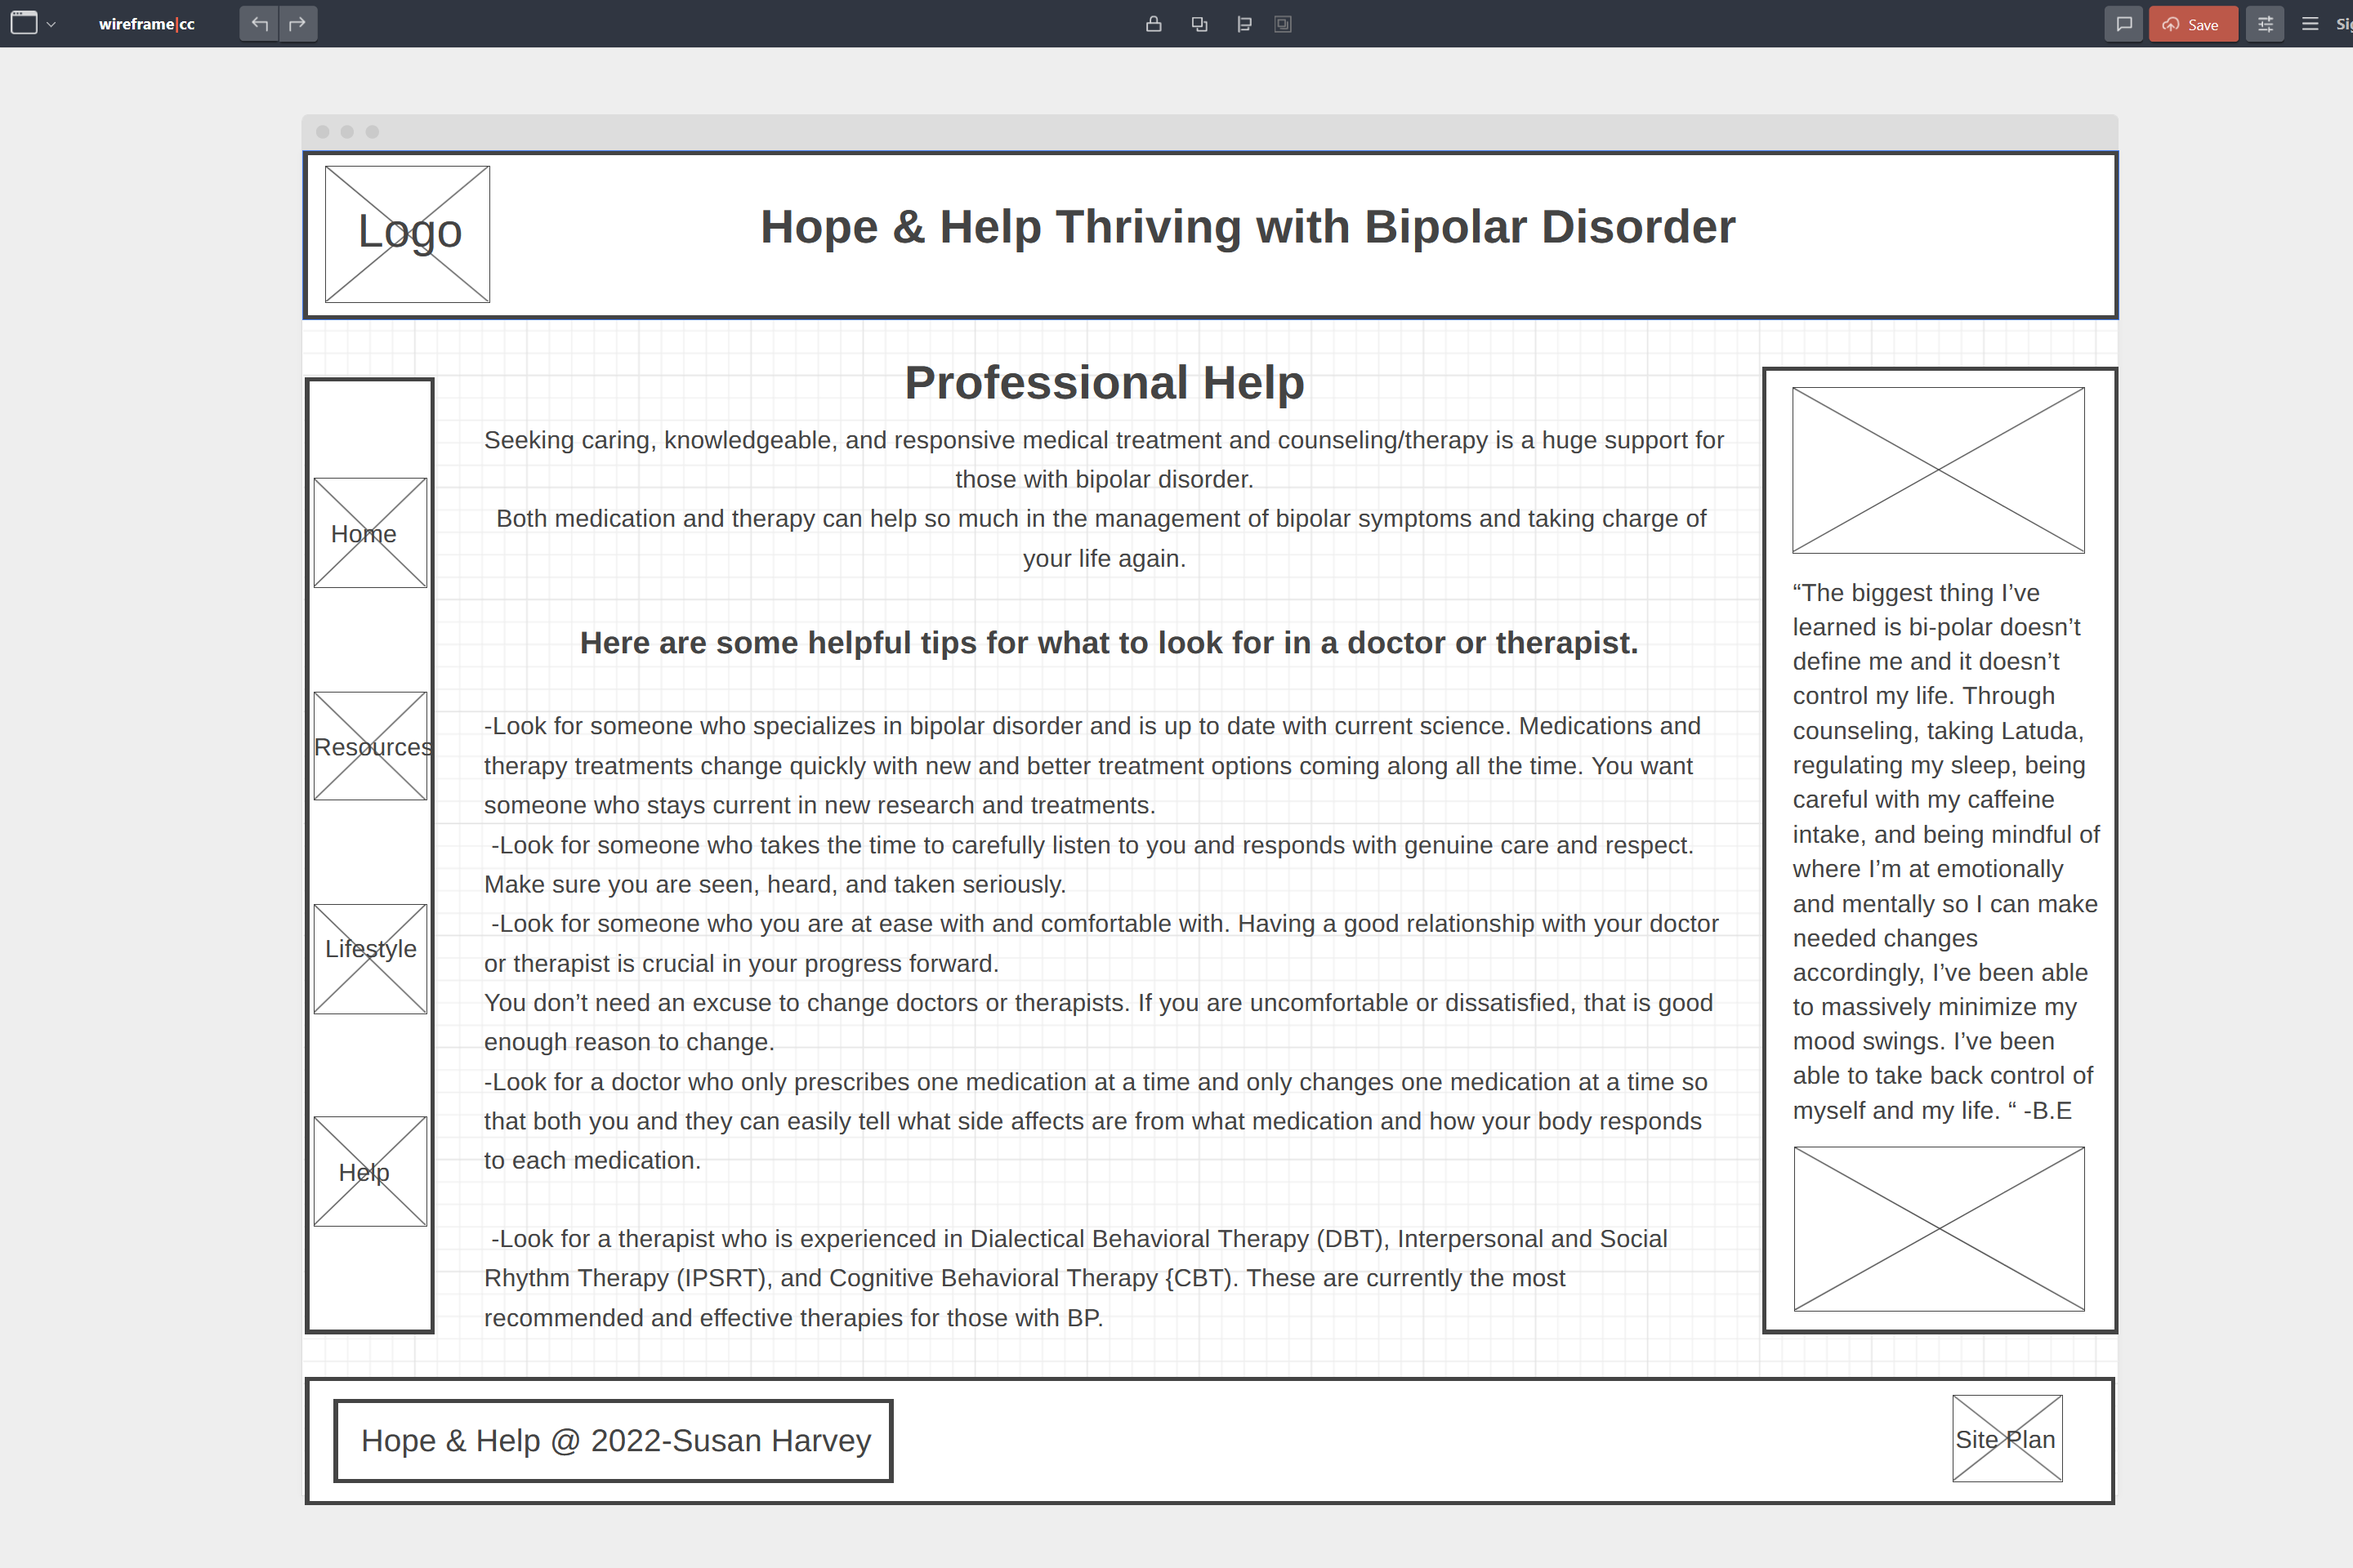
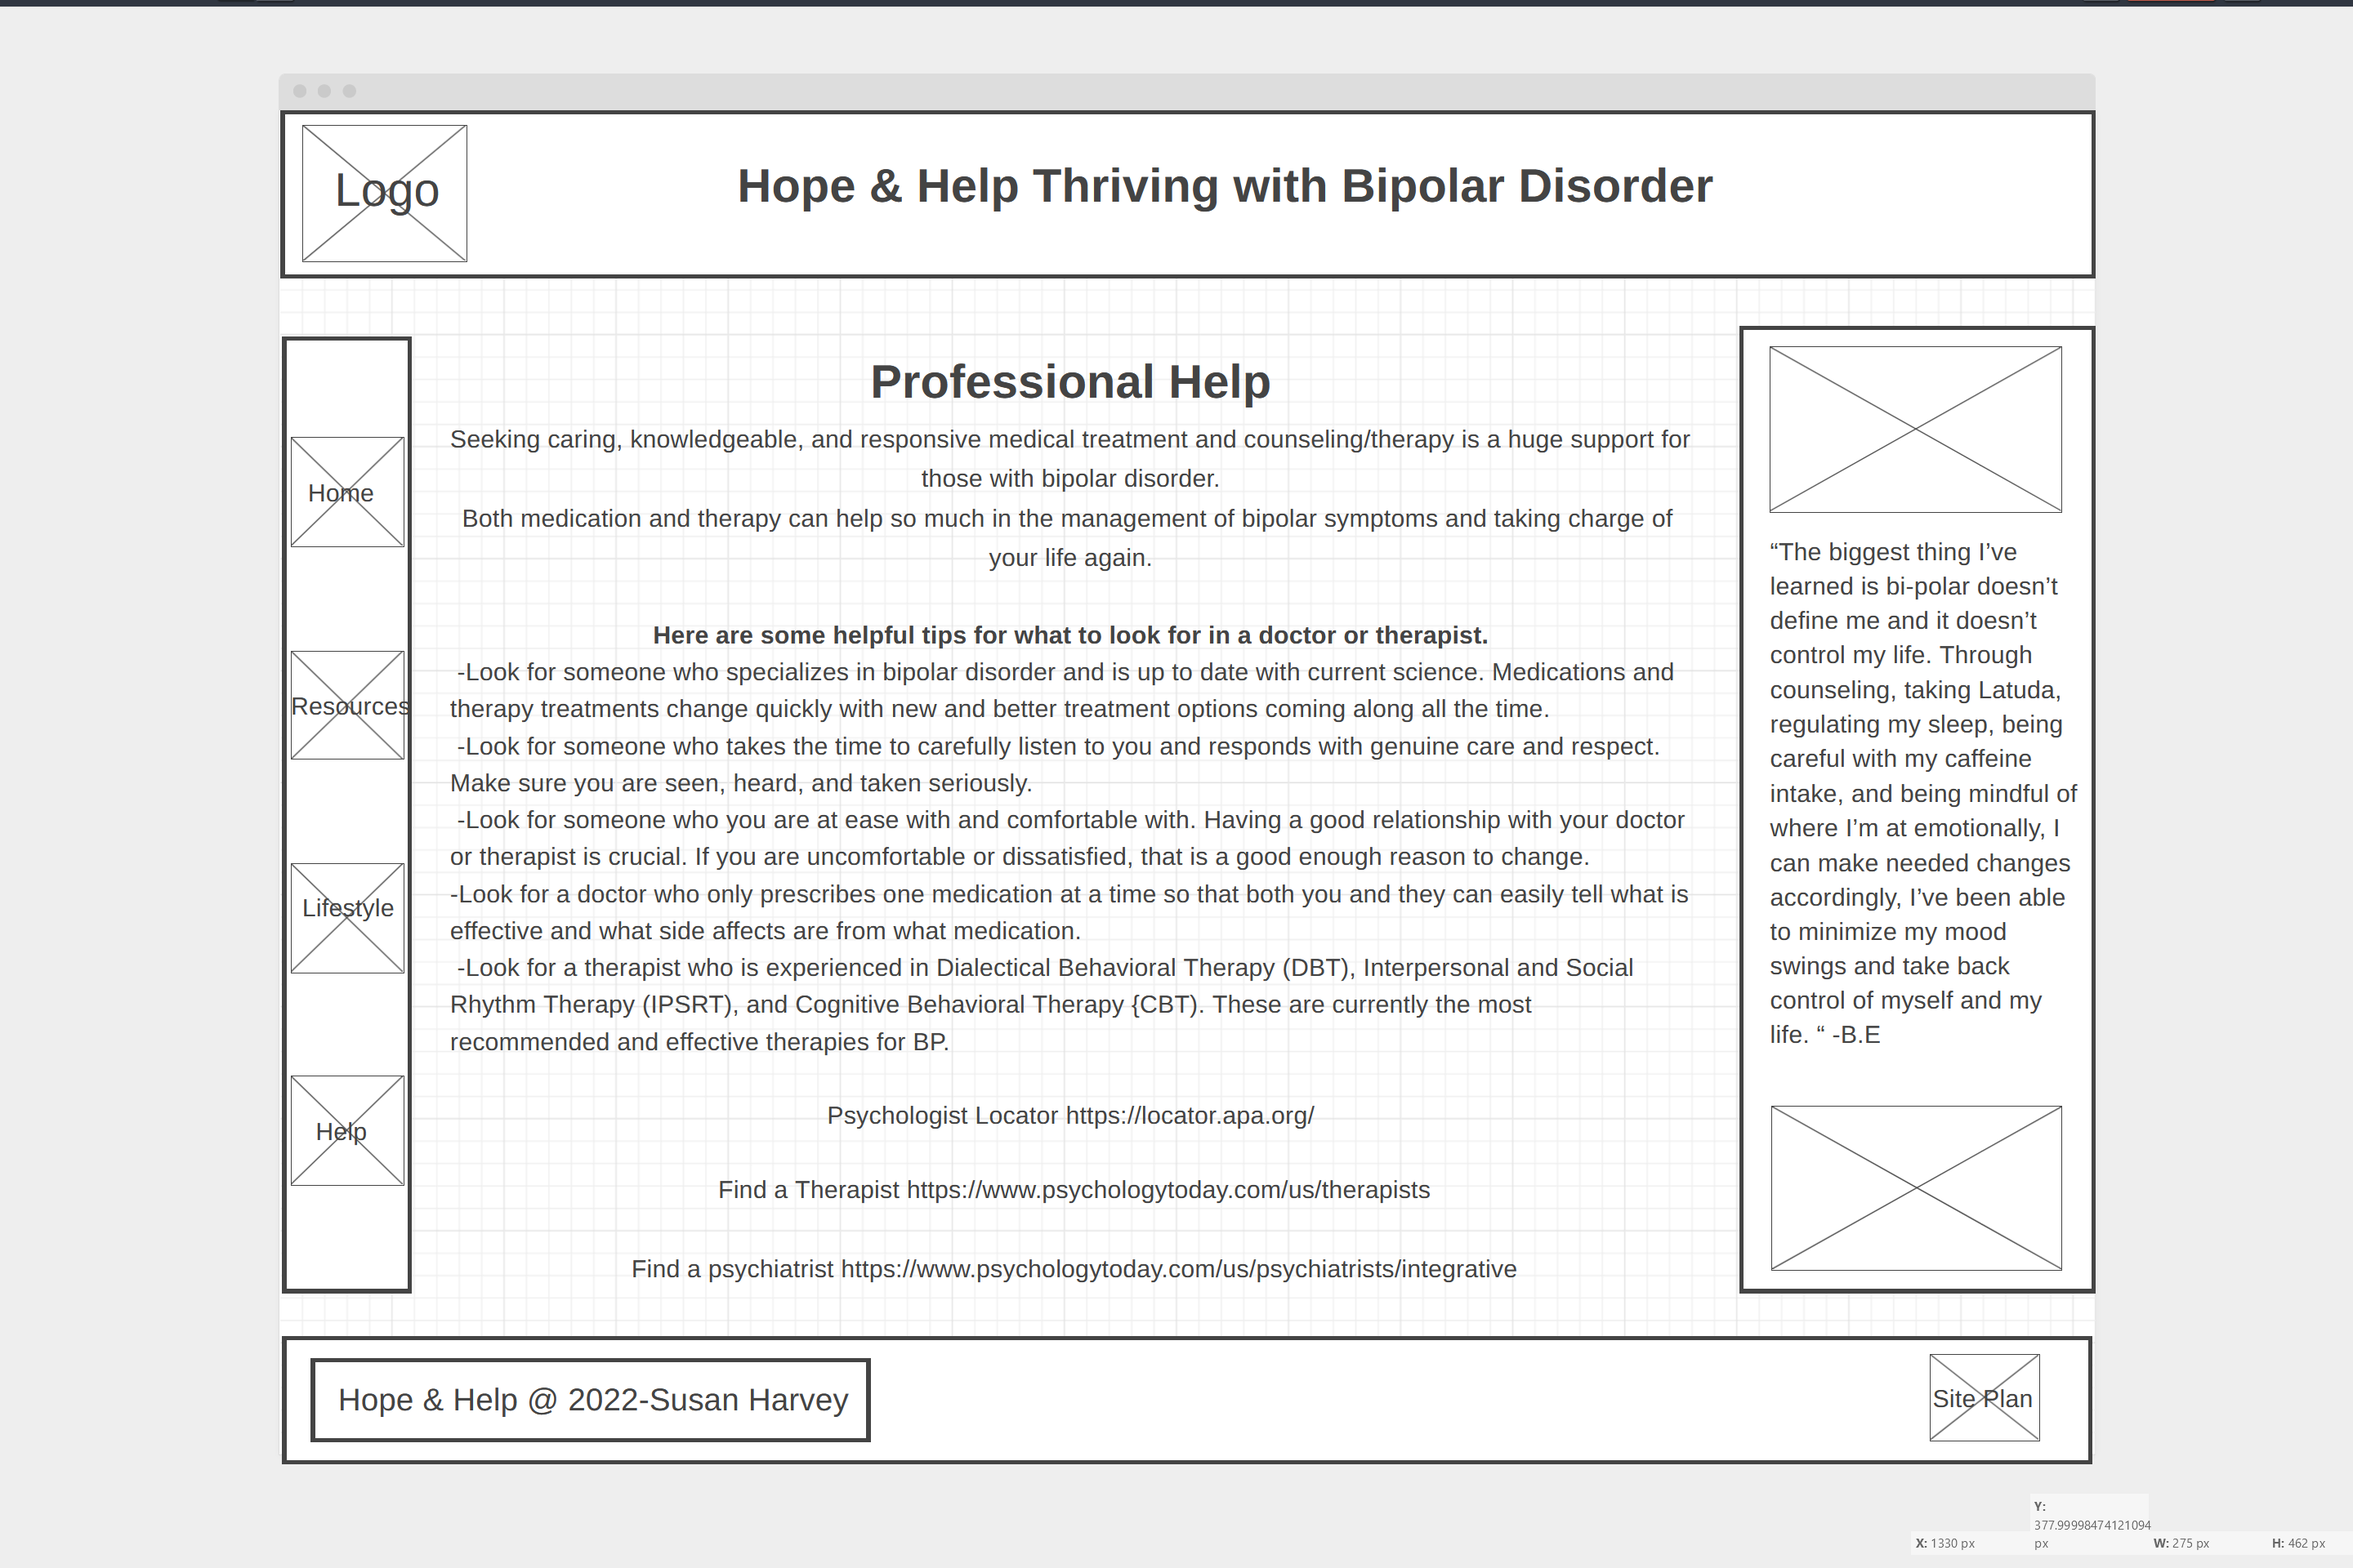
text corrections

Changed region(s): [[0.0, 0.0, 1.0, 0.9688], [0.8125, 0.2812, 0.8438, 0.3125]]

diff --git a/hope&help/site-plan.html b/hope&help/site-plan.html
@@ -147,12 +147,10 @@
       </ul>
       <h3>Resources-Educate Yourself</h3>
       <p>
-        Educate yourself about bipolar disorder, including treatments options and medications. You need to be able to advocate for yourself and be very involved in all decisions regarding your treatment. Take charge of your life and your treatment. Knowledge is power!
+        Educate yourself about bipolar disorder, including treatments options and medications. You need to be able to advocate for yourself and be very involved in all decisions regarding your treatment. Take charge of your life and your treatment.<br>Knowledge is power!
       </p>  
       <p>
-        Here are some excellent resources to get you started.
-      </p>
-      <p>
+        Here are some excellent resources to get you started.<br>
         National Alliance on Mental Health (NAMI) https://www.nami.org/About-Mental-Illness/Mental-Health-Conditions/Bipolar-Disorder/Support<br> 
         Depression and Bipolar Support Alliance https://www.dbsalliance.org/<br>
         International Bipolar Foundation https://ibpf.org/ 
@@ -161,6 +159,14 @@
         Why Am I Still Depressed? Recognizing and Managing the Ups and Downs of Bipolar II and Soft Bipolar Disorder, Jim Phelps, MD<br>
         Take Charge of Bipolar Disorder, Julie A. Fast and John Preston
       </p>  
+      <p>
+        "Reading about others' experiences helped me feel less alone.
+        Educating myself about bipolar helped me not to blame myself.
+        I learned that the brain is an organ that gets sick - just
+        like the heart or stomach or lungs. It helped me understand 
+        and accept the need for medications and learn about other 
+        self-care things I could do to feel better." -B.G
+      </p>
       <p>Images for Educate Yourself</p>
         <img src="images/educate-pexels-photo-8653712.webp" alt="man reading on his computer">
         <img src="images/woman-reading-book-park_501669-11965.jpg" alt="woman reading a book">
@@ -195,16 +201,16 @@
         Seeking caring, knowledgeable, and responsive medical treatment and counseling/therapy is important for those with bipolar disorder.<br>Both medication and therapy are important and will help you thrive.
       </p>
       <p>
-         Here are some helpful tips for what to look for in a doctor or therapist.
+         Here are some helpful tips for what to look for in a doctor or therapist.<br>
         -Look for someone who specializes in bipolar disorder and is up to date with current science. Medications and therapy treatments change quickly with new and better treatment options coming along all the time.<br>
         -Look for someone who takes the time to carefully listen to you and responds with genuine care and respect.  Make sure you are seen, heard, and taken seriously.<br>
-        -Look for someone who you are at ease with and comfortable with. Having a good relationship with your doctor or therapist is crucial.<br>If you are uncomfortable or dissatisfied, that is a good enough reason to change.
+        -Look for someone who you are at ease with and comfortable with. Having a good relationship with your doctor or therapist is crucial. If you are uncomfortable or dissatisfied, that is a good enough reason to change.<br>
         -Look for a doctor who only prescribes one medication at a time so that both you and they can easily tell what is effective and what side affects are from what medication.<br> 
         -Look for a therapist who is experienced in Dialectical Behavioral Therapy (DBT), Interpersonal and Social Rhythm Therapy (IPSRT), and Cognitive Behavioral Therapy {CBT). These are currently the most recommended and effective therapies for BP.
       </p>
       <p>
         Psychologist Locator https://locator.apa.org/<br>
-        Find a Therapist https://www.psychologytoday.com/us/therapists<br>
+        Find a Therapist https://www.psychologytoday.com/us/therapists<br><br>
         Find a psychiatrist https://www.psychologytoday.com/us/psychiatrists/integrative
       </p>
       <p>
@@ -226,25 +232,25 @@
       <p>         
         [Any additional details about home that the wireframe does not make clear]
       </p>
-      <img src="images/Home-Page.png" alt="home page wireframe">
+      <img src="images/home-page.png" alt="home page wireframe">
 
       <h3>Resources</h3>
       <p>         
         [Any additional details about page 2 that the wireframe does not make clear]
       </p>
-      <img src="images/Resources.png" alt="page 2 wireframe">
+      <img src="images/resources.png" alt="page 2 wireframe">
 
       <h3>Lifestyle</h3>
       <p>         
         [Any additional details about page 3 that the wireframe does not make clear]
       </p>
-      <img src="images/Lifestyle.png" alt="page 4 wireframe">
+      <img src="images/lifestyle.png" alt="page 4 wireframe">
 
       <h3>Help</h3>
       <p>         
         [Any additional details about page 3 that the wireframe does not make clear]
       </p>
-      <img src="images/Help.png" alt="page 3 wireframe">
+      <img src="images/help.png" alt="page 3 wireframe">
     </main>
   </body>
 
